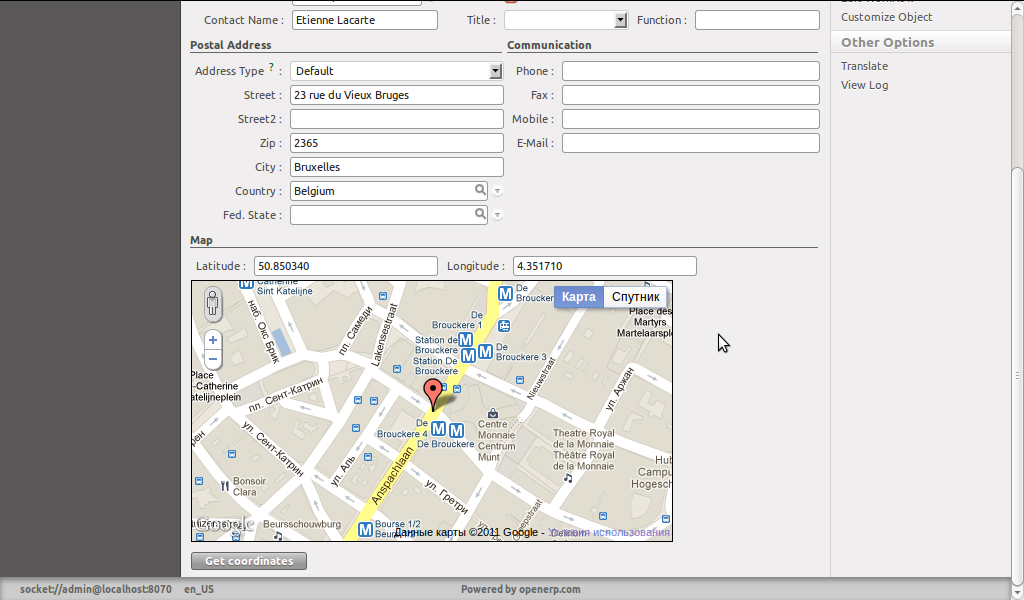
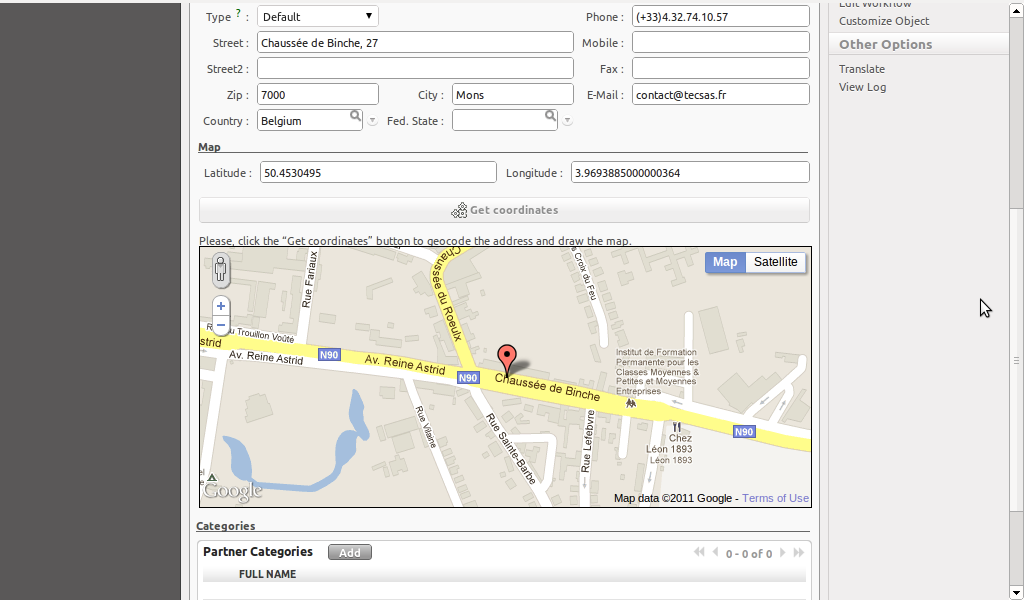
Restylo.

diff --git a/web_google_map/web/static/css/gmap.css b/web_google_map/web/static/css/gmap.css
@@ -1,8 +1,10 @@
 div#gmap {
-	width: 480px;
+	width: 100%;
 	height: 260px;
 	border: 1px solid #000000;
 }
 button#gcb {
 	margin-top: 10px;
+	margin-bottom: 10px;
+	height: 26px;
 }

diff --git a/web_google_map/__openerp__.py b/web_google_map/__openerp__.py
@@ -21,7 +21,7 @@
 
 {
     'name': 'Web Map',
-    'version': '0.3.3',
+    'version': '0.3.4',
     'category': 'Added functionality / Widgets',
     'description': """
 InfoSreda OpenERP Web Map
